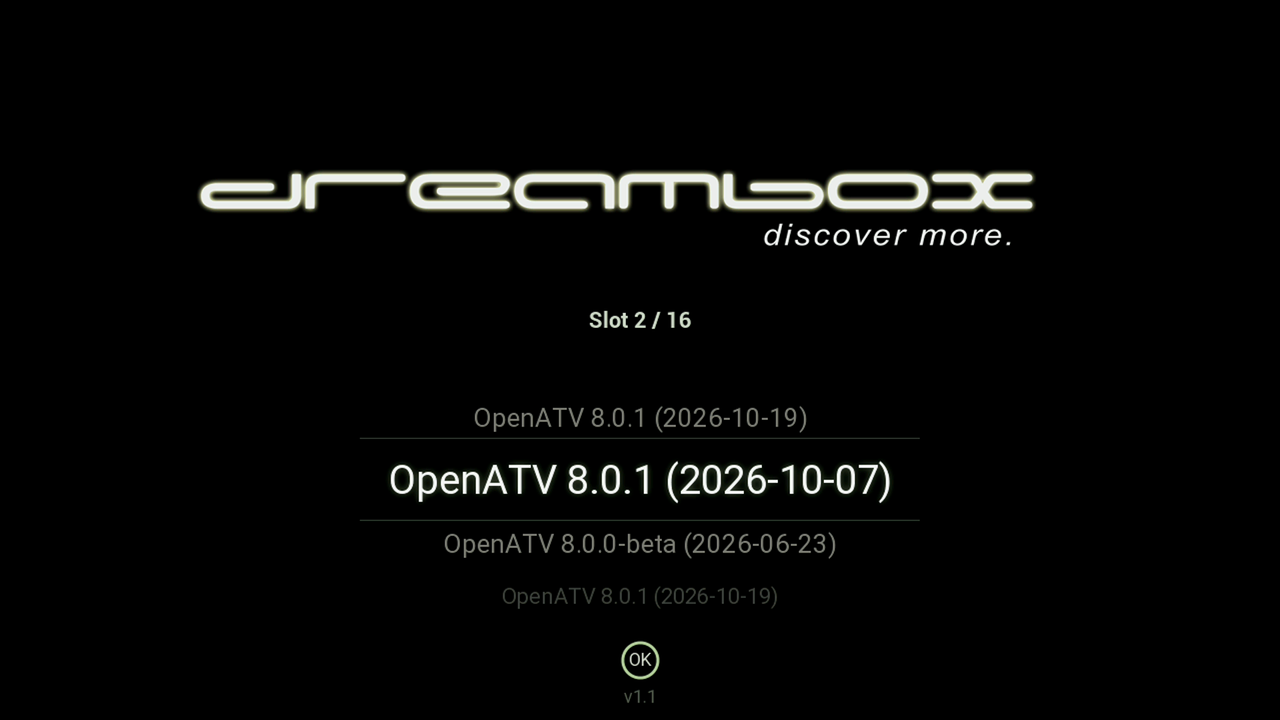
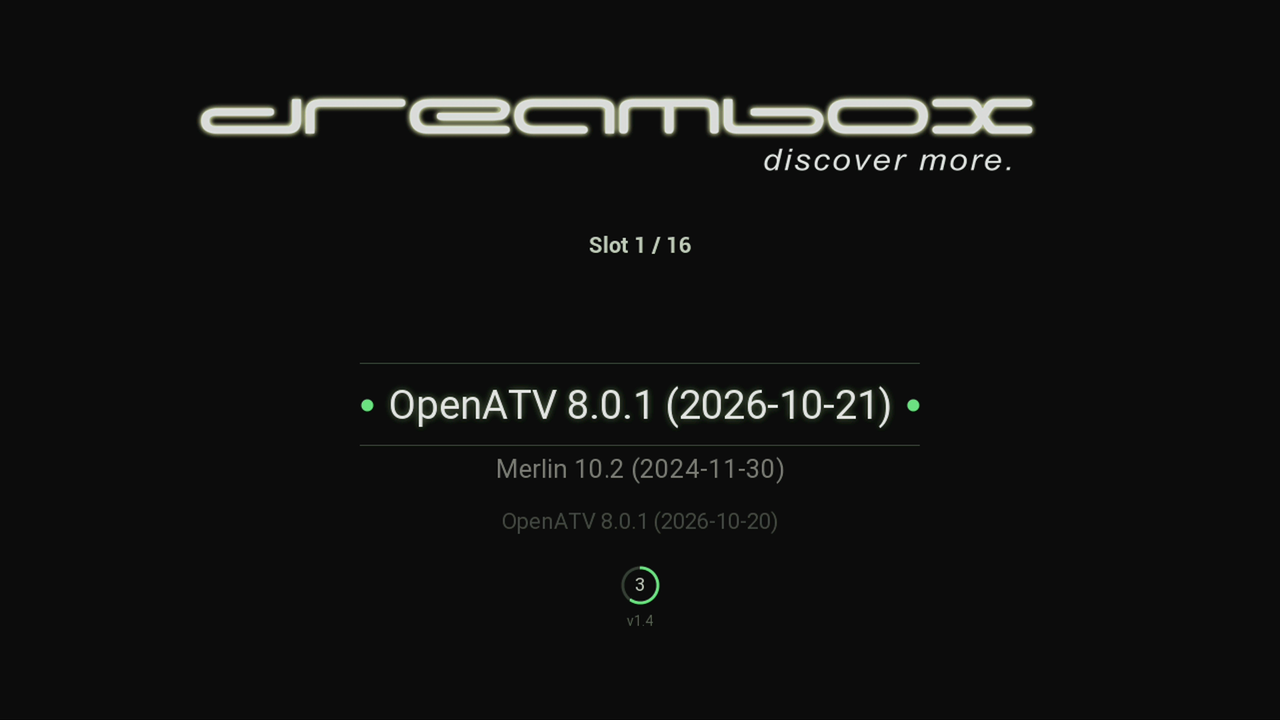
Document how to use the menu and what it does in each case
Explain the keys, the countdown, the default dots and the IR/BT marks
for users, and gather the normal case, timeout=0, OK held, the backup
and fallback entries, the ways back to the built-in menu, the video
output and the remotes in one section of the README. Show the current
menu.

Bump the version to 1.5.

diff --git a/src/menu.c b/src/menu.c
@@ -42,7 +42,7 @@ typedef unsigned long u64;
 
 #define RC_TOGGLE	0x80u		/* set in the second frame of a press */
 
-#define BOOTMENU_VERSION	"1.4"	/* a change here tags a release */
+#define BOOTMENU_VERSION	"1.5"	/* a change here tags a release */
 
 #define RESULT_MAGIC	0x4d454e55u	/* "MENU" */
 

diff --git a/README.md b/README.md
@@ -34,19 +34,95 @@ then puts it into `bootcmd` and lets u-boot continue. `dm_bootmenu` finds no
 `loadaddr` and gives up without a menu, u-boot initialises the network (so
 the kernel gets the real MAC address) and boots the chosen entry.
 
-If `bootmenu.bin` is missing or returns nothing, the script does nothing and
-the built-in menu comes up as before.
+## Using the menu
 
-Without `/data/bootconfig.txt`, or with an empty one, the built-in menu has
-nothing to show and boots whatever u-boot has stored, on the GPT layout
-possibly a kernel with the wrong root. The boot menu takes over instead: the
-script loads the copy `install.sh` keeps as `/data/bootmenu/bootconfig.bak`,
-refreshed on every run from a `bootconfig.txt` with entries. Without that
-copy too, the menu offers the five eMMC slots ("Fallback Slot 1" to 5) and
-the recovery with fixed entries, the second slot as default, as it holds the
-image that started the menu. A red line below the list says which of the two
-it shows, and in both cases there is no countdown: nothing starts until OK
-is pressed.
+The menu comes up when the box starts, after the Dreambox logo. The entry in
+the middle, between the two lines, is the one that starts.
+
+| key on the remote | what it does |
+|---|---|
+| up / down | moves to the entry above or below; held, it keeps moving |
+| left | jumps to the first entry |
+| right | jumps to the last entry |
+| OK | starts the entry in the middle |
+| OK held while the box starts | brings the menu even with `timeout=0`, without a countdown |
+
+The ring at the bottom counts the seconds until the selected entry starts on
+its own. Up, down, left or right stop the countdown; the ring then shows "OK",
+and nothing starts until OK is pressed. The dots left and right of an entry
+mark the default one, the entry that starts on its own and is selected when
+the menu comes up. Which entry is the default, and how long the countdown
+runs, is set in the image's multiboot settings (`default=` and `timeout=` in
+`/data/bootconfig.txt`).
+
+"IR" left of the ring or "BT" right of it lights up for a second whenever a
+key arrives, by infrared or by Bluetooth. The line "Slot 3 / 16" above the
+list says which of how many entries is selected, the number below the ring
+is the version of the boot menu.
+
+Every Dreambox remote of the One and Two works, by infrared as well as by
+Bluetooth. A remote switched to its TV mode sends codes for the TV, which the
+menu does not take.
+
+On the serial console (115200 baud), `u`, `d`, `f`, `l` and Return or the
+arrow keys do the same as up, down, left, right and OK; `q` or Ctrl+C leaves
+the menu, and the built-in menu follows.
+
+## What the menu does
+
+**Normally** it shows the logo and the entries of `bootconfig.txt`, the
+`default=` entry selected and marked with a dot left and right of it, and a
+countdown of `timeout=` seconds in the ring at the bottom. The countdown runs
+down to 0 like the built-in menu, then the selected entry starts. Up, down,
+left or right stop it, and a ring around "OK" stands where the countdown was.
+
+**With `timeout=0`** there is no logo and no menu, the default entry starts
+right away. The built-in menu does the same, but rejects such a file and
+starts whatever u-boot has stored instead.
+
+**OK held on the remote while the box starts** always brings the menu,
+without a countdown, also with `timeout=0`. Then a yellow line "Menu forced
+by OK" below the ring says why the menu is there.
+
+**Without `/data/bootconfig.txt`, or with an empty one**, the built-in menu
+has nothing to show and boots whatever u-boot has stored, on the GPT layout
+possibly a kernel with the wrong root. The boot menu takes over instead:
+
+- the script loads the copy `install.sh` keeps as
+  `/data/bootmenu/bootconfig.bak`, refreshed on every run from a
+  `bootconfig.txt` with entries; a red line below the ring says "bootconfig.txt
+  is missing, these entries come from its backup"
+- without that copy too, the menu offers fixed entries for the five eMMC
+  slots ("Fallback Slot 1" to "Fallback Slot 5") and the recovery, the second
+  slot as default, as it holds the image that started the menu; the red line
+  says "bootconfig.txt and its backup is missing, these are available
+  fallback entries"
+
+In both cases there is no countdown, nothing starts until OK is pressed.
+
+**The built-in menu stays as a way out.** It comes up as before when
+
+- `bootmenu.bin` or `bootmenu.img` is missing, or `/data/bootmenu` altogether
+- the program returns no choice
+- `q` or Ctrl+C is pressed on the serial console (115200 baud); the console
+  is checked once before anything is drawn, so this works even if drawing
+  should fail
+
+**The picture** is always 1080p50 in RGB. 1080p50 is the mode the built-in
+menu uses and every TV takes; RGB is what every HDMI TV has to take, while
+some, such as older Panasonic plasmas, show nothing of the YCbCr u-boot sends
+otherwise. The image in the second slot may have set no mode or another one,
+e.g. 1080p60, and the colour space only changes together with the mode, so
+the script sets both. A TV then needs a few seconds before it shows the
+picture again, so the countdown may already have started when the menu
+appears. The image that starts sets its own mode and colour space.
+
+**The remotes:** infrared remotes send NEC codes, on addresses `0x32` to
+`0x35` with the same two key tables as the Linux driver. A Bluetooth remote
+sends its first press by infrared and the rest over Bluetooth to the front
+processor of the box, which passes its key reports on over a UART of its own;
+the menu reads both. The console logs every key with where it came from and
+its code.
 
 ## Installing
 
@@ -102,7 +178,7 @@ A u-boot standalone program, started as
 - `fb`: the framebuffer, `0x${initrd_high}` as u-boot set it up for the logo
 - `logo`: `bootlogo.bmp` as loaded by the script (RGB565, screen size); it is
   drawn only when the menu shows
-- `copy`: 1 when `cfg` is `bootconfig.bak`, for the note below the list
+- `copy`: 1 when `cfg` is `bootconfig.bak`, for the note below the ring
 - `mode`: u-boot's `outputmode`, used in `arg=` of the fallback entries
   (1080p50hz without it)
 
@@ -115,25 +191,8 @@ Titles are UTF-8 (a byte order mark is skipped); the fonts cover ASCII,
 Latin-1, Latin Extended-A and the extra characters of Windows-1252 (euro
 sign, typographic quotes and dashes), anything else is drawn as `?`.
 
-It honours `default=` and `timeout=` from `bootconfig.txt`; the countdown
-runs down to 0 like the built-in menu, and dots left and right of the default
-entry mark it while scrolling. With `timeout=0` there is no logo and
-no menu, the default entry starts right away (the built-in menu then rejects
-the file and starts whatever u-boot has stored). OK held on the remote while
-the box starts always brings the menu, without a countdown; a ring around
-"OK" then stands where the countdown would be, as it does once up or down
-stopped the countdown. The version shows below it.
-
-Keys: up and down move the bar and repeat when held, left jumps to the first
-entry, right to the last, and OK starts the chosen one. The Dreambox remotes
-work by infrared (NEC, addresses `0x32` to `0x35`) and by Bluetooth. A
-Bluetooth remote reaches u-boot through the front processor of the box,
-which passes its key reports on over a UART of its own. For a second after
-each key, "IR" left of the ring or "BT" right of it shows where it came
-from, and the console logs it with its code. On the serial
-console `u`, `d`, `f`, `l` and Return, or the arrow keys, do the same, and
-`q` or Ctrl+C leaves the menu without a choice, so the built-in menu takes
-over. The console is also checked once before anything is drawn.
+Of the global keys it uses `default=` and `timeout=`; `fb_pos`, `fb_size`
+and `font_size` belong to the layout of the built-in menu and are ignored.
 
 ## Building
 
